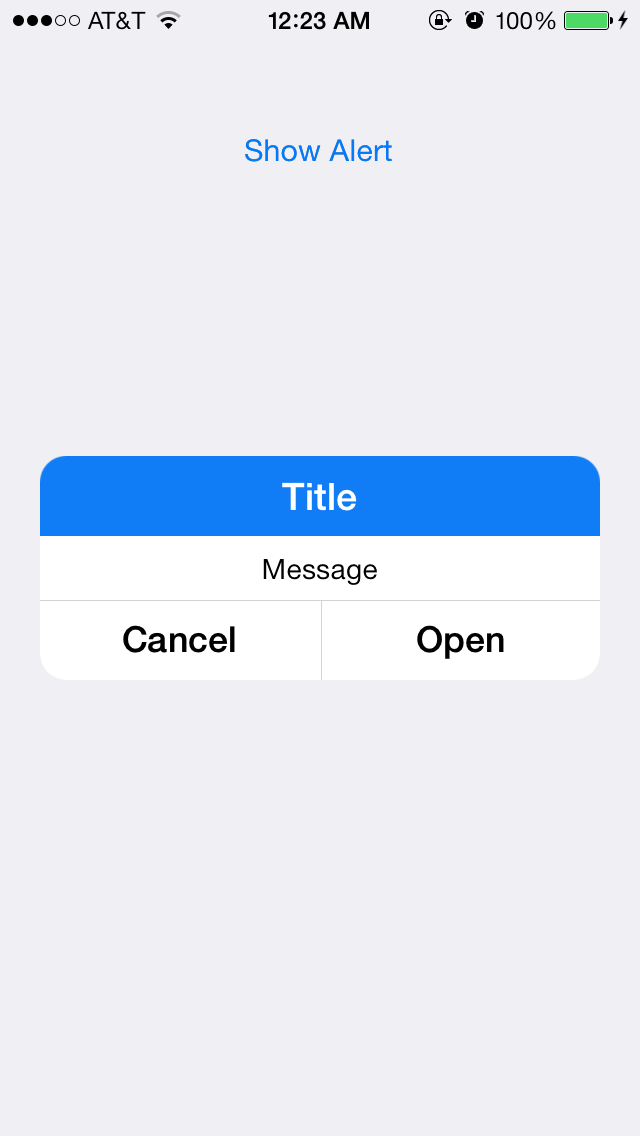
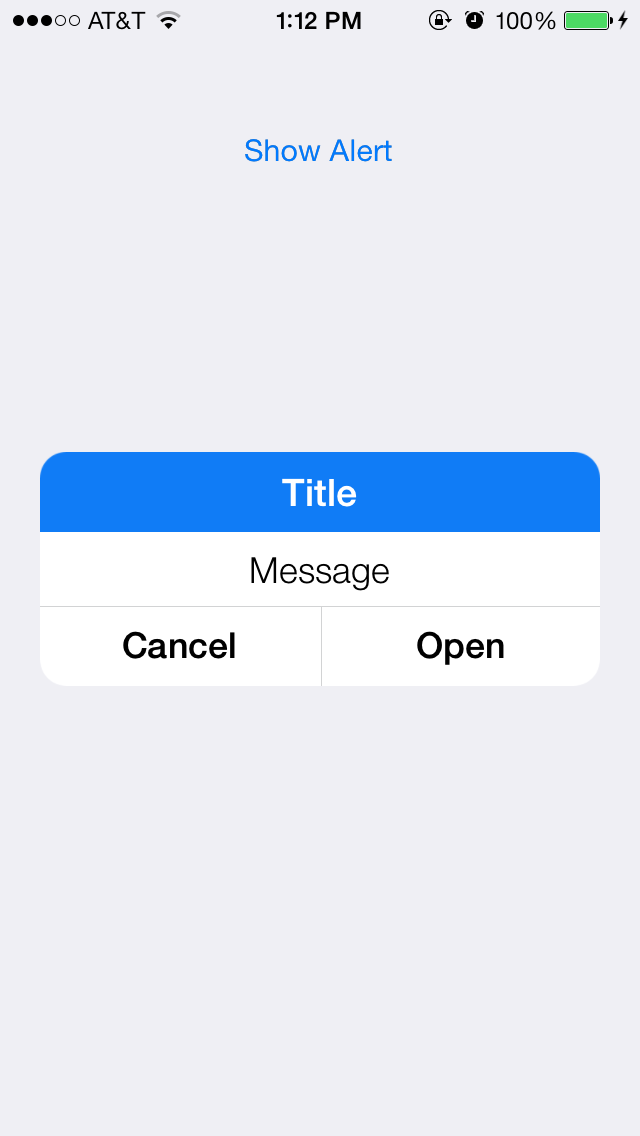
Fixed animation and font size
Animation is more like Tweetbots now. Font size has also been changed
to HelveticaNeue-Light and size 18

diff --git a/MLAlertView/MLAlertView.m b/MLAlertView/MLAlertView.m
@@ -8,6 +8,8 @@
 
 #import "MLAlertView.h"
 
+#define DEGREES_TO_RADIANS(angle) ((angle) / 180.0 * M_PI)
+
 @interface MLAlertView () <UICollisionBehaviorDelegate>
 @property (nonatomic, strong) UIDynamicAnimator *animator;
 @property (nonatomic, strong) UIAttachmentBehavior *attachmentBehavior;
@@ -40,7 +42,7 @@
     CGAffineTransform scale = CGAffineTransformMakeScale(5, 5);
     self.transform = scale;
     [[[UIApplication sharedApplication] windows][0] addSubview:self];
-    [UIView animateWithDuration:0.25 animations:^{
+    [UIView animateWithDuration:0.3 animations:^{
         self.alpha = 1.0;
         self.transform = CGAffineTransformIdentity;
     }];
@@ -50,14 +52,15 @@
     
     UIDynamicAnimator *animator = [[UIDynamicAnimator alloc] initWithReferenceView:[[UIApplication sharedApplication] windows][0]];
     
-    CGPoint squareCenterPoint = CGPointMake(self.center.y, self.center.y);
-    UIOffset attachmentPoint = UIOffsetMake(CGRectGetMaxX(self.frame), self.center.y);
+    CGPoint squareCenterPoint = CGPointMake(CGRectGetMaxX(self.frame), CGRectGetMinY(self.frame));
+    UIOffset attachmentPoint = UIOffsetMake(CGRectGetMinX(self.frame), CGRectGetMaxY(self.frame));
     UIAttachmentBehavior *attachmentBehavior = [[UIAttachmentBehavior alloc] initWithItem:self offsetFromCenter:attachmentPoint attachedToAnchor:squareCenterPoint];
     [animator addBehavior:attachmentBehavior];
     self.attachmentBehavior = attachmentBehavior;
     
     UIGravityBehavior *gravityBeahvior = [[UIGravityBehavior alloc] initWithItems:@[self]];
-    gravityBeahvior.magnitude = 2;
+    gravityBeahvior.magnitude = 4;
+    gravityBeahvior.angle = DEGREES_TO_RADIANS(100);
     [animator addBehavior:gravityBeahvior];
     self.gravityBehavior = gravityBeahvior;
     
@@ -76,7 +79,7 @@
     if (self) {
         
         
-        UIFont *font = [UIFont systemFontOfSize:14];;
+        UIFont *font = [UIFont fontWithName:@"HelveticaNeue-Light" size:18];
         
         CGFloat currentWidth = 280;
         CGSize maximumSize = CGSizeMake(currentWidth, CGFLOAT_MAX);
@@ -109,7 +112,7 @@
         messageView.font = font;
         messageView.editable = NO;
         messageView.dataDetectorTypes = UIDataDetectorTypeAll;
-        messageView.scrollEnabled = NO;
+        messageView.userInteractionEnabled = NO;
         messageView.textAlignment = NSTextAlignmentCenter;
         [self addSubview:messageView];
         
